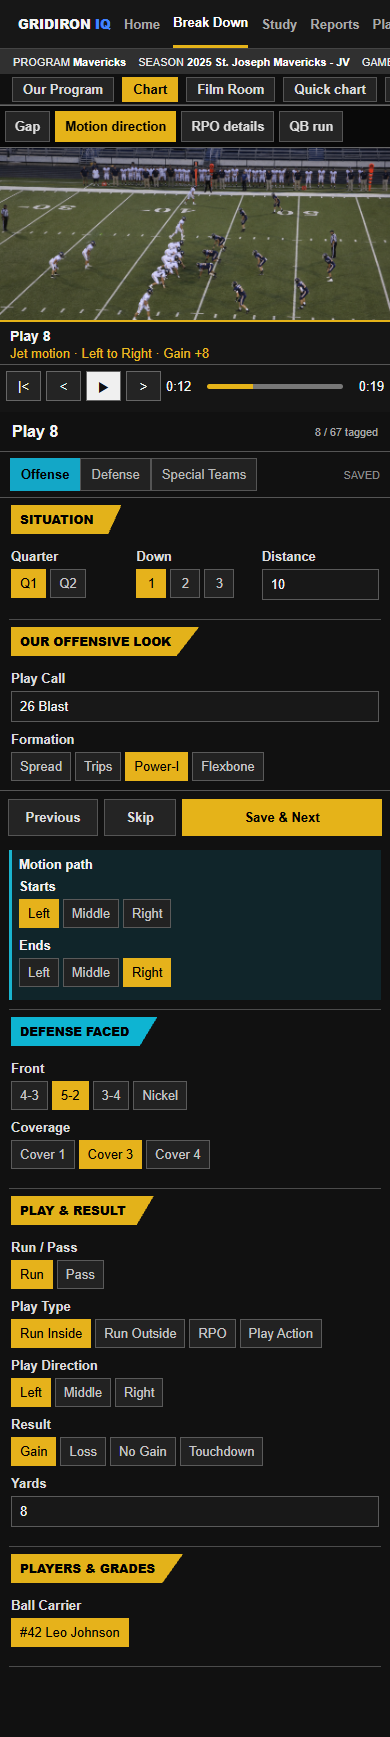
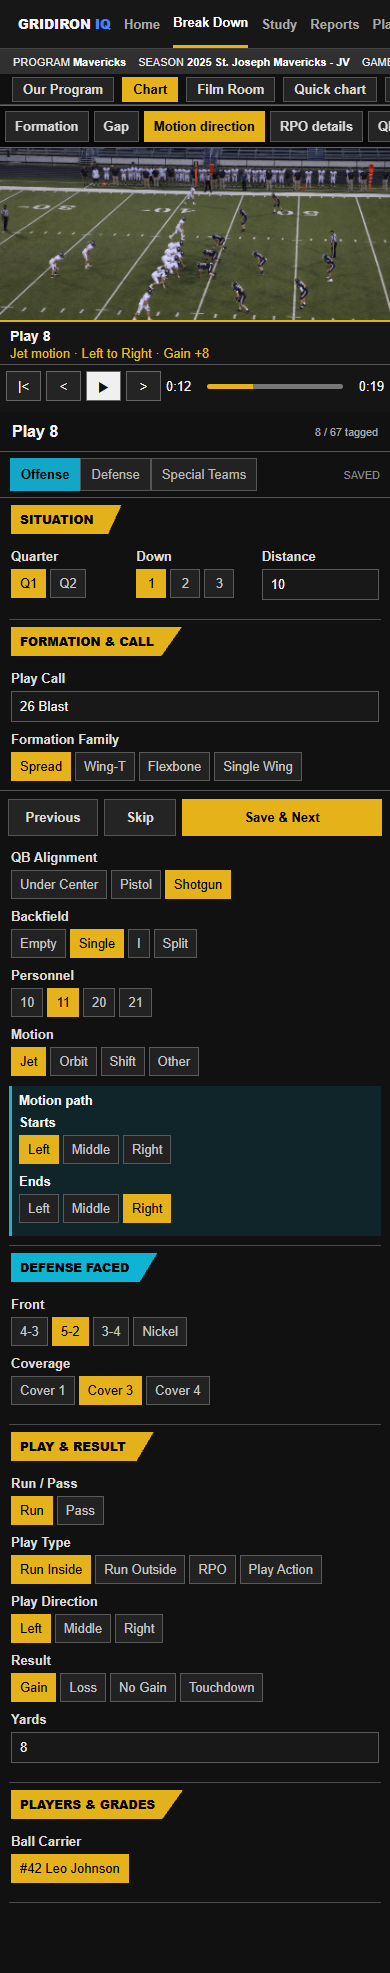
Comp: separate formation family and receiver set

diff --git a/design-comps/breakdown-charting-2026-09-27/index.html b/design-comps/breakdown-charting-2026-09-27/index.html
@@ -67,6 +67,7 @@
     .new-field { margin:8px -2px 0; padding:7px 7px 3px; border-left:3px solid #1ab4cf; background:#10252a; }
     .new-field .field:first-child { margin-top:0; }
     .new-field .field-label { color:#f2f2f2; }
+    .formation-fields.focused { margin:8px -2px 0; padding:7px 7px 3px; border-left:3px solid #1ab4cf; background:#10252a; }
     .scenario { display:none; }
     .scenario.active { display:contents; }
     .save { display:grid; grid-template-columns:90px 72px minmax(0,1fr); gap:6px; padding:8px; border-top:1px solid #555; }
@@ -88,7 +89,7 @@
       <div class="film"><div class="frame"><img src="../../ux-prototype/assets/all22-frame.png" alt="All-22 football film frame"></div><div class="film-meta"><strong>Play 8 <span style="color:#999;font-weight:400">1st &amp; 10 · Own 28 · Left hash</span></strong><span class="accent" id="film-summary">26 Blast · Run inside · Gain +8</span><span>Our Drive 1</span></div><div class="film-controls"><div class="buttons"><button title="Previous play">|&lt;</button><button title="Rewind">&lt;</button><button class="play" title="Play">&#9654;</button><button title="Forward">&gt;</button><span>0:12</span><div class="track"></div><span>0:19</span></div></div></div>
       <aside class="plays"><div class="plays-head">PLAYS <small>67 plays · grouped by drive</small></div><div class="play-list"><div class="play-row"><span>3</span><b>1st &amp; 10</b><span>Loss -3</span></div><div class="play-row"><span>4</span><b>2nd &amp; 13</b><span>Penalty +5</span></div><div class="play-row"><span>5</span><b>2nd &amp; 8</b><span>Loss -1</span></div><div class="play-row"><span>6</span><b>3rd &amp; 9</b><span>Loss -4</span></div><div class="play-row"><span>7</span><b>4th &amp; 13</b><span>Punt</span></div><div class="play-row current"><span>8</span><b>1st &amp; 10</b><span>Gain +8</span></div><div class="play-row"><span>9</span><b>1st &amp; 10</b><span>Gain +6</span></div><div class="play-row"><span>10</span><b>2nd &amp; 4</b><span>TD +8</span></div><div class="play-row"><span>11</span><b>Down -</b><span>XP</span></div><div class="play-row"><span>12</span><b>Down -</b><span>Kickoff</span></div><div class="play-row"><span>13</span><b>1st &amp; 10</b><span>Loss -1</span></div><div class="play-row"><span>14</span><b>2nd &amp; 11</b><span>Gain +1</span></div></div></aside>
       <section class="deck" aria-label="Charting deck"><div class="deck-head"><strong>Play 8</strong><small>8 / 67 tagged</small></div><div class="unit"><button class="active">Offense</button><button>Defense</button><button>Special Teams</button><span class="mode">SAVED</span></div><div class="deck-body"><div class="section"><span class="section-title">SITUATION</span><div class="select-line"><div class="field"><div class="field-label">Quarter</div><div class="chips"><button class="chip on">Q1</button><button class="chip">Q2</button></div></div><div class="field"><div class="field-label">Down</div><div class="chips"><button class="chip on">1</button><button class="chip">2</button><button class="chip">3</button></div></div><div class="field"><div class="field-label">Distance</div><input class="input" value="10" aria-label="Distance"></div></div></div>
-      <div class="section"><span class="section-title">OUR OFFENSIVE LOOK</span><div class="field"><div class="field-label">Play Call</div><input class="input" id="play-call" value="26 Blast" aria-label="Play call"></div><div class="field"><div class="field-label">Formation</div><div class="chips"><button class="chip">Spread</button><button class="chip">Trips</button><button class="chip on">Power-I</button><button class="chip">Flexbone</button></div></div><div class="field"><div class="field-label">Motion</div><div class="chips"><button class="chip" id="jet-chip">Jet</button><button class="chip">Orbit</button><button class="chip">Shift</button><button class="chip">Other</button></div></div>
+      <div class="section"><span class="section-title">FORMATION &amp; CALL</span><div class="field"><div class="field-label">Play Call</div><input class="input" id="play-call" value="26 Blast" aria-label="Play call"></div><div class="formation-fields" id="formation-fields"><div class="field"><div class="field-label">Formation Family</div><div class="chips" id="formation-family"><button class="chip on">Spread</button><button class="chip">Wing-T</button><button class="chip">Flexbone</button><button class="chip">Single Wing</button></div></div><div class="field"><div class="field-label">Receiver Set</div><div class="chips" id="receiver-set"><button class="chip">2x2</button><button class="chip on">3x1</button><button class="chip">2x1</button><button class="chip">3x2</button></div></div></div><div class="field"><div class="field-label">QB Alignment</div><div class="chips"><button class="chip">Under Center</button><button class="chip">Pistol</button><button class="chip on">Shotgun</button></div></div><div class="field"><div class="field-label">Backfield</div><div class="chips"><button class="chip">Empty</button><button class="chip on">Single</button><button class="chip">I</button><button class="chip">Split</button></div></div><div class="field"><div class="field-label">Personnel</div><div class="chips"><button class="chip">10</button><button class="chip on">11</button><button class="chip">20</button><button class="chip">21</button></div></div><div class="field"><div class="field-label">Motion</div><div class="chips"><button class="chip" id="jet-chip">Jet</button><button class="chip">Orbit</button><button class="chip">Shift</button><button class="chip">Other</button></div></div>
       <div class="scenario" data-scenario="motion"><div class="new-field"><div class="field-label">Motion path</div><div class="field"><div class="field-label">Starts</div><div class="chips"><button class="chip on">Left</button><button class="chip">Middle</button><button class="chip">Right</button></div></div><div class="field"><div class="field-label">Ends</div><div class="chips"><button class="chip">Left</button><button class="chip">Middle</button><button class="chip on">Right</button></div></div></div></div></div>
       <div class="section"><span class="section-title cyan">DEFENSE FACED</span><div class="field"><div class="field-label">Front</div><div class="chips"><button class="chip">4-3</button><button class="chip on">5-2</button><button class="chip">3-4</button><button class="chip">Nickel</button></div></div><div class="field"><div class="field-label">Coverage</div><div class="chips"><button class="chip">Cover 1</button><button class="chip on">Cover 3</button><button class="chip">Cover 4</button></div></div></div>
       <div class="section"><span class="section-title">PLAY &amp; RESULT</span><div class="field"><div class="field-label">Run / Pass</div><div class="chips"><button class="chip on">Run</button><button class="chip">Pass</button></div></div><div class="field"><div class="field-label">Play Type</div><div class="chips"><button class="chip on">Run Inside</button><button class="chip">Run Outside</button><button class="chip">RPO</button><button class="chip">Play Action</button></div></div>
@@ -100,9 +101,9 @@
       </div><div class="save"><button>Previous</button><button>Skip</button><button class="primary">Save &amp; Next</button></div></section>
     </main>
   </div>
-  <nav class="review-tabs" aria-label="Comp views"><button data-view="gap" class="active">Gap</button><button data-view="motion">Motion direction</button><button data-view="rpo">RPO details</button><button data-view="qb">QB run</button></nav>
+  <nav class="review-tabs" aria-label="Comp views"><button data-view="formation" class="active">Formation</button><button data-view="gap">Gap</button><button data-view="motion">Motion direction</button><button data-view="rpo">RPO details</button><button data-view="qb">QB run</button></nav>
   <script>
-    let currentView='gap';
+    let currentView='formation';
     function selected(group) { return document.querySelector(group+' .chip.on')?.textContent || 'Uncharted'; }
     function syncExample() {
       const keeper=currentView==='qb' && selected('[data-scenario="qb"] .field:nth-of-type(2)')==='RPO keeper';
@@ -116,6 +117,7 @@
     }
     function updateSummary() {
       let detail;
+      if (currentView==='formation') detail=`${selected('#formation-family')} · ${selected('#receiver-set')} · 26 Blast`;
       if (currentView==='gap') detail=`26 Blast · Gap ${selected('[data-scenario="gap"]')}`;
       if (currentView==='motion') detail=`Jet motion · ${selected('[data-scenario="motion"] .field:nth-of-type(2)')} to ${selected('[data-scenario="motion"] .field:nth-of-type(3)')}`;
       if (currentView==='rpo') detail=`RPO Glance · ${selected('[data-scenario="rpo"] .field:nth-of-type(2)')} read · ${selected('[data-scenario="rpo"] .field:nth-of-type(4)')}`;
@@ -127,6 +129,7 @@
       currentView=view;
       document.querySelectorAll('.review-tabs button').forEach(button => button.classList.toggle('active',button.dataset.view===view));
       document.querySelectorAll('.scenario').forEach(panel => panel.classList.toggle('active',panel.dataset.scenario===view));
+      document.getElementById('formation-fields').classList.toggle('focused',view==='formation');
       updateSummary();
       document.getElementById('play-call').value=view==='rpo'?'RPO Glance':view==='qb'?'QB Draw':'26 Blast';
       document.getElementById('jet-chip').classList.toggle('on',view==='motion');
@@ -136,14 +139,14 @@
       if(resultButtons) resultButtons.forEach(button => button.classList.toggle('on',button.textContent===(view==='rpo'?'Pass':'Run')));
       if (innerWidth>650) {
         const deckBody=document.querySelector('.deck-body');
-        const field=document.querySelector(`.scenario[data-scenario="${view}"] .new-field`);
+        const field=view==='formation'?document.getElementById('formation-fields'):document.querySelector(`.scenario[data-scenario="${view}"] .new-field`);
         deckBody.scrollTop+=field.getBoundingClientRect().top-deckBody.getBoundingClientRect().top-175;
       }
       history.replaceState(null,'','#'+view);
     }
     document.querySelectorAll('.review-tabs button').forEach(button => button.addEventListener('click',()=>show(button.dataset.view)));
-    document.querySelectorAll('.new-field .chips').forEach(group => group.addEventListener('click',event => { const button=event.target.closest('button'); if(!button) return; const wasOn=button.classList.contains('on'); group.querySelectorAll('button').forEach(item=>item.classList.remove('on')); if(!wasOn) button.classList.add('on'); updateSummary(); }));
-    show(['gap','motion','rpo','qb'].includes(location.hash.slice(1))?location.hash.slice(1):'gap');
+    document.querySelectorAll('.new-field .chips, .formation-fields .chips').forEach(group => group.addEventListener('click',event => { const button=event.target.closest('button'); if(!button) return; const wasOn=button.classList.contains('on'); group.querySelectorAll('button').forEach(item=>item.classList.remove('on')); if(!wasOn) button.classList.add('on'); updateSummary(); }));
+    show(['formation','gap','motion','rpo','qb'].includes(location.hash.slice(1))?location.hash.slice(1):'formation');
   </script>
 </body>
 </html>

diff --git a/design-comps/breakdown-charting-2026-09-27/RATIONALE.md b/design-comps/breakdown-charting-2026-09-27/RATIONALE.md
@@ -4,10 +4,11 @@ Status: proposal only. The coach has not approved the field design or vocabulary
 
 Design requirement: do not show "optional" subtext beside charting fields. Blank values remain valid where the data model permits them; the label does not need to announce that.
 
-Open `index.html` and switch between Gap, Motion direction, RPO details, and QB run. The existing Chart workspace and section order are preserved. A cyan inset highlights each proposed field group; the rest of the deck provides placement and density context. The game/play values are illustrative, not a claim about the canonical season. The film is a repository asset used as a visual fixture. On-screen explainer prose was removed at the coach's request; rationale remains here.
+Open `index.html` and switch between Formation, Gap, Motion direction, RPO details, and QB run. The existing Chart workspace and section order are preserved. A cyan inset highlights each proposed field group; the rest of the deck provides placement and density context. The game/play values are illustrative, not a claim about the canonical season. The film is a repository asset used as a visual fixture. On-screen explainer prose was removed at the coach's request; rationale remains here.
 
 ## Placement and behavior proposed
 
+- Formation & Call replaces the vague Our Offensive Look heading in this comp. Formation Family (e.g. Spread) and Receiver Set (e.g. 3x1) are separate selections. The film summary displays both together. QB Alignment, Backfield, Personnel, Motion, and Play Call remain distinct rows. The numeric set choices are receiver distributions, not package names or bunch/stack modifiers. The exact family and set vocabularies still need coach review.
 - Gap belongs in Play & Result beside Play Type and Play Direction. It records the actual lane hit, not the called gap. A/B/C/D are paired with left/right, plus Other lane. It is optional and does not change yardage or run classification.
 - Motion path belongs directly after Motion in Our Offensive Look. Start and end are separately optional; both use the offense's left/middle/right perspective. Motion type remains its own tag.
 - RPO details appear only for an RPO play. Read defender and decision are separate from the existing Play Type and Run/Pass result. End/Apex/Box/Other and Give/Keep/Throw are provisional vocabulary.
@@ -22,15 +23,17 @@ Open `index.html` and switch between Gap, Motion direction, RPO details, and QB 
 3. For RPO, which read types and decisions do your coaches actually chart? Should the read defender identify a player, a defender role, or both?
 4. Is the placement and density usable in the live deck at desktop and narrower widths?
 5. Should QB run classification join this implementation checkpoint, and are Designed, Scramble, and RPO keeper the right mutually exclusive choices?
+6. Which formation families and receiver sets should be in the default library, and where should modifiers such as Bunch, Unbalanced, Goal Line, and Victory live?
 
-Implementation, if approved, needs owned tag definitions, editing/clear semantics, Film Room columns and detail, reporting/export handling, and focused tests. No historical plays should be inferred or backfilled.
+Implementation, if approved, needs owned tag definitions, editing/clear semantics, Film Room columns and detail, reporting/export handling, and focused tests. The production Formation field currently mixes family, set, and package concepts; this comp does not change that model or migrate data. No historical plays should be inferred or backfilled.
 
 ## Competitor references
 
 - [QwikCut Advanced Stat Entry](https://support.qwikcut.com/portal/en/kb/articles/football-stat-entry-advanced-22-7-2023) documents a per-clip, editable column workflow. Its listed defaults include Motion Direction (left/right) and RPO as a Play Type; entered values also appear near the video. The comp keeps the coach's requested start and end, which goes beyond that documented motion-direction field.
 - [Hudl's coach-authored custom columns](https://www.hudl.com/blog/3-custom-columns-that-get-you-quick-answers-in-hudl-beta) let staffs chart concepts specific to their scheme. [Another Hudl coach example](https://www.hudl.com/blog/five-useful-custom-columns) uses a defender jersey column. The optional number in this RPO proposal follows that flexible pattern, but the exact RPO vocabulary still needs coach approval.
+- [Hudl's game-planning examples](https://www.hudl.com/blog/finding-answers-that-drive-football-gameplans) use distributions such as 2x2 and 3x1. [QwikCut's football page](https://www.qwikcut.com/football/) lists Offensive Formation and Backfield separately. Neither source establishes a universal picker vocabulary; Family and Receiver Set here are a GridIron IQ proposal.
 - These are public documentation examples, not a claim that either product has this exact three-field design. The comp borrows their quick per-play feedback and extensibility while preserving GridIron IQ's existing Chart deck and Save & Next workflow.
 
 ## Visual check
 
-The four views were captured at 1440x900 and 390x844. Each view shows its own proposed group, the film asset loads, and neither viewport has horizontal document overflow. The screenshots are review evidence, not production acceptance.
+The five views were captured at 1440x900 and 390x844. Each view shows its own proposed group, the film asset loads, and neither viewport has horizontal document overflow. The screenshots are review evidence, not production acceptance.
